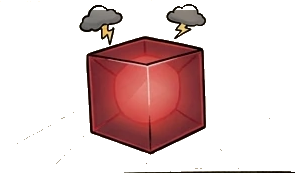
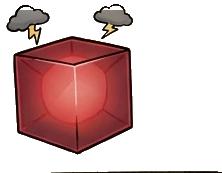
Guarda el recortador con limpieza de confeti y los emo-*.png mejorados (por si vuelven las emociones)
Claude-Session: https://claude.ai/code/session_01E3vXZPJtAEyM9MxmSxV3Lz

diff --git a/tools/recorta_emociones.py b/tools/recorta_emociones.py
@@ -125,6 +125,31 @@ def dentro_del_marco(panel):
     return panel.crop((max(0, left), max(0, top), min(w, right + 1), h))
 
 
+def _quita_confeti(op, w, h, min_area=28):
+    """Borra las islitas opacas pequeñas (confeti): restos de piso/sombra que
+    quedaron sueltos. Conserva el cubo (isla grande) y los garabatos (estrellas,
+    nubes, ?? …, que son islas de tamaño decente)."""
+    from collections import deque
+    seen = bytearray(w * h)
+    for y0 in range(h):
+        for x0 in range(w):
+            if seen[y0 * w + x0] or op[x0, y0][3] == 0:
+                continue
+            q = deque([(x0, y0)]); seen[y0 * w + x0] = 1; comp = [(x0, y0)]
+            while q:
+                x, y = q.popleft()
+                for dx, dy in ((1, 0), (-1, 0), (0, 1), (0, -1)):
+                    nx, ny = x + dx, y + dy
+                    if 0 <= nx < w and 0 <= ny < h and not seen[ny * w + nx] \
+                            and op[nx, ny][3] > 0:
+                        seen[ny * w + nx] = 1
+                        q.append((nx, ny)); comp.append((nx, ny))
+            if len(comp) < min_area:
+                for (x, y) in comp:
+                    r, g, b, a = op[x, y]
+                    op[x, y] = (r, g, b, 0)
+
+
 def quita_fondo(panel):
     """Borra el fondo del PANEL COMPLETO (crema + piso + marco) sin recortar la
     expresión.
@@ -225,7 +250,14 @@ def quita_fondo(panel):
                 px[x, y] = MARCA
             if px[x, y] == MARCA:
                 op[x, y] = (0, 0, 0, 0)
-            else:
+
+    _quita_confeti(op, w, h)           # borra las islitas sueltas (confeti)
+
+    # bbox de lo que quedó opaco (ya sin confeti -> se ajusta al cubo)
+    minx, miny, maxx, maxy = w, h, 0, 0
+    for y in range(h):
+        for x in range(w):
+            if op[x, y][3] > 0:
                 if x < minx: minx = x
                 if y < miny: miny = y
                 if x > maxx: maxx = x
